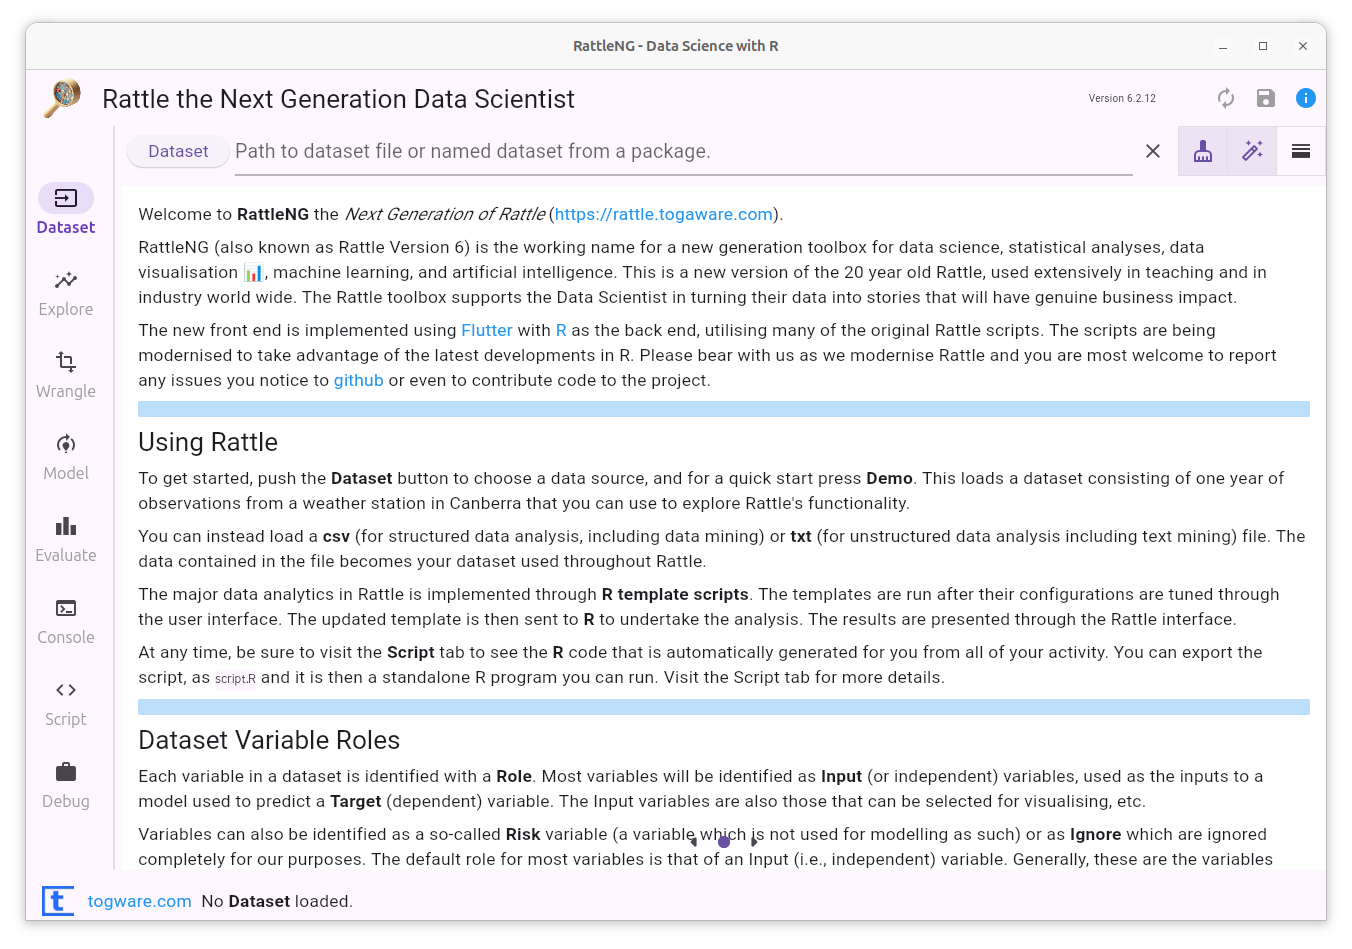
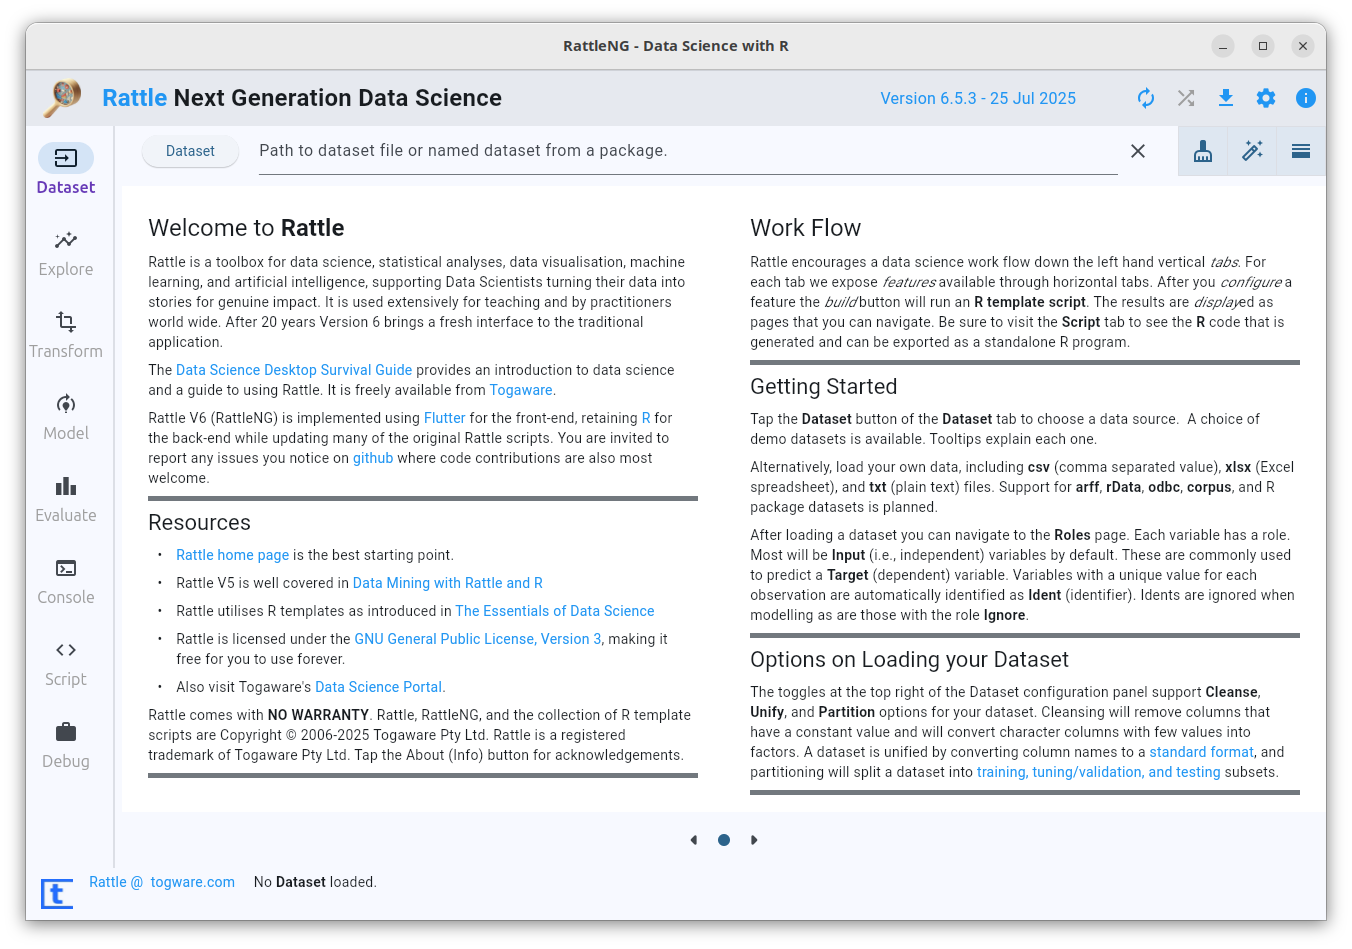
Update README screenshots.

Changed region(s): [[0.0, 0.0306, 0.9941, 0.9779], [0.4038, 0.0306, 0.5902, 0.0611], [0.8388, 0.1528, 0.9009, 0.1834]]

diff --git a/README.md b/README.md
@@ -219,7 +219,7 @@ Suggested tasks can be found as github issues.
 
 ## Some RattleNG teasers
 
-### Rattle's 5 Click to Your First AI Model
+### Rattle's 5 Clicks to Your First AI Model
 
 The traditional Rattle Welcome screen provides an overview of
 Rattle. To build your first model, simply click the **Dataset** button
